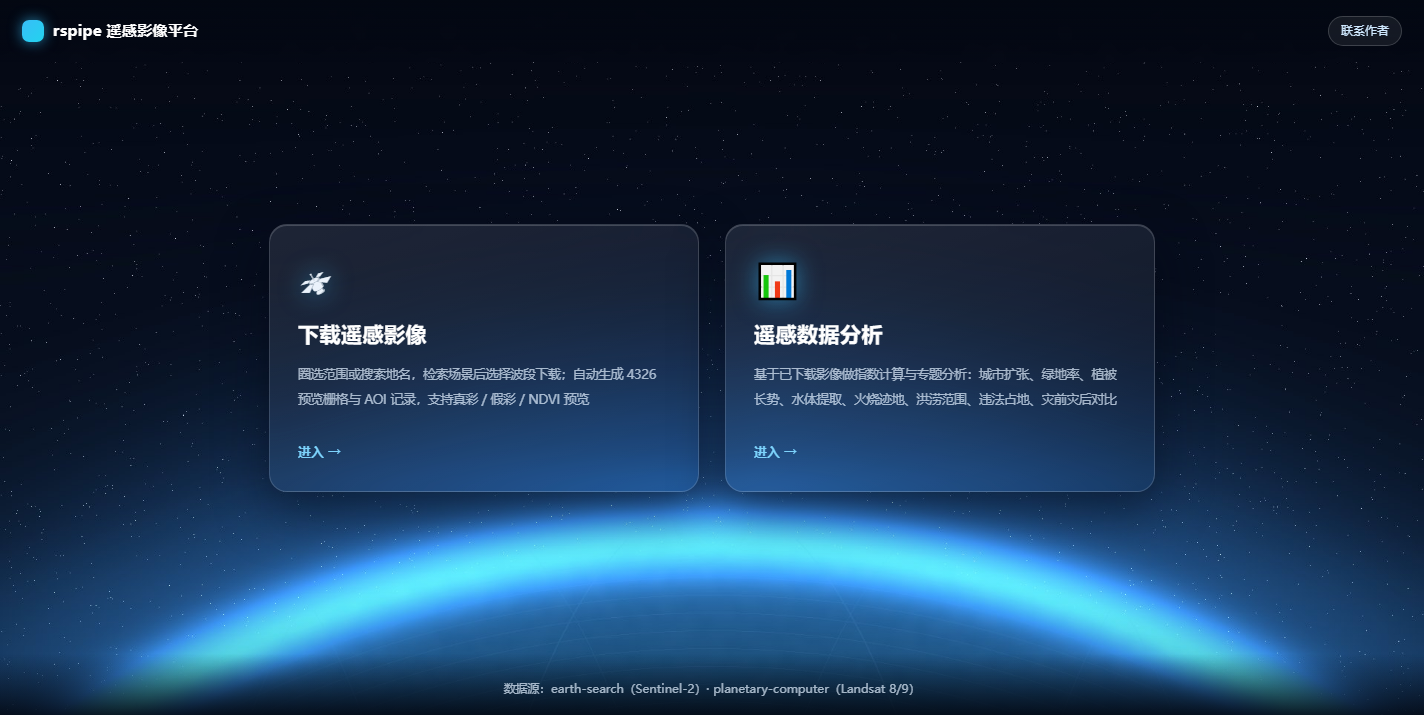
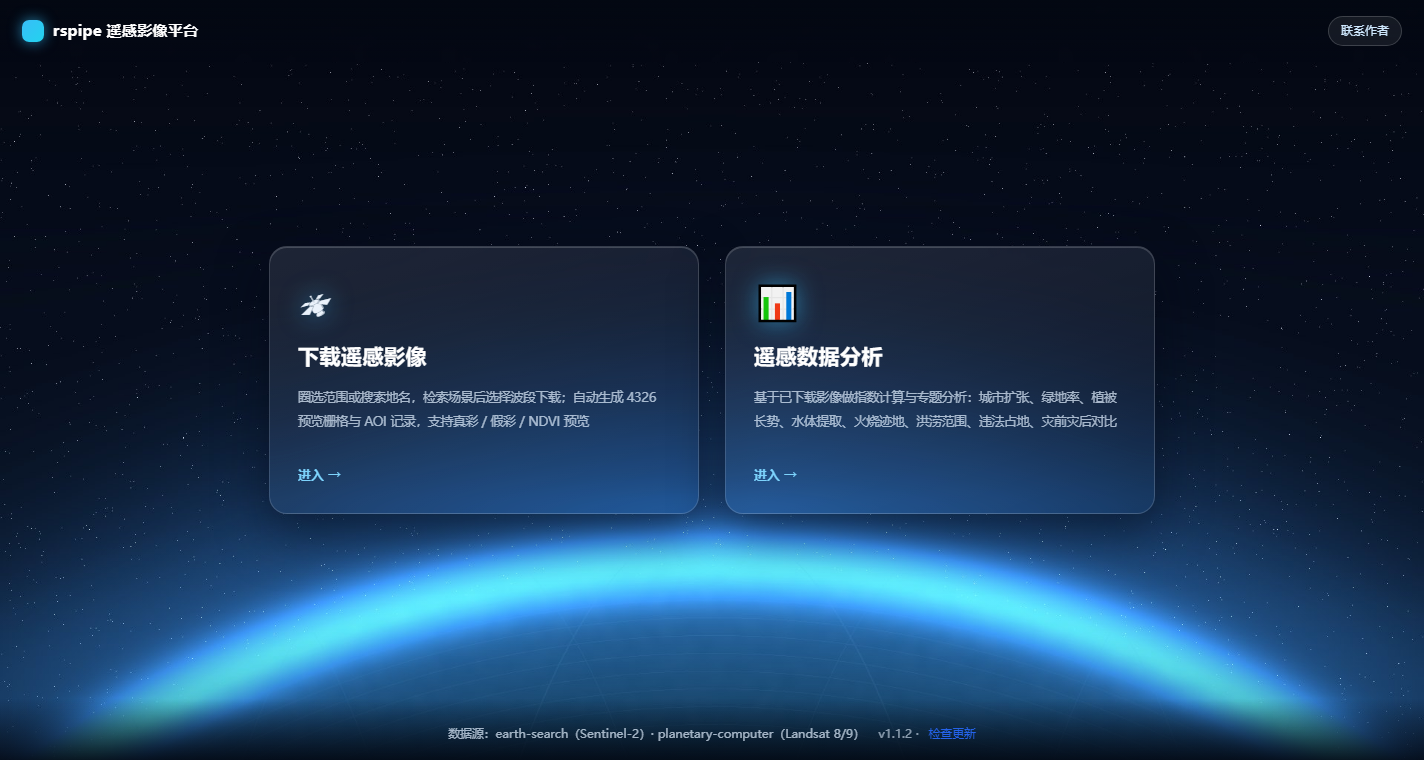
docs: 2.0 规划移出仓库（plan/，不同步）+ 界面预览截图更新
- 三份 2.0 规划文档移到 plan/，.gitignore 忽略 plan/，README 去掉对应链接
- 重新截取 7 张界面图：首页（含版本/检查更新）、下载页（上传矢量 AOI）、
  分析页（15 指数分组）、分析指南（通用说明 + 分类卡片）、波段选择（分组 + 必选锁定）、
  下载/分析操作指引

diff --git a/README.md b/README.md
@@ -337,9 +337,6 @@ docs/             设计与问题记录
 - `docs/web项目设计.md` — Web 平台架构与分期
 - `docs/应用能力介绍.md` — 能做哪些应用（城市/农业/林业/水环境/灾害/执法等）、方法、产出与能力边界
 - `docs/开发问题与经验.md` — 踩坑清单与规避方法
-- `docs/2.0-规划-土地利用分类.md` — 2.0 土地利用分类：数据源实测、规则原型、方案与里程碑
-- `docs/2.0-规划-数据源扩展.md` — 2.0 可免费接入的影像源（PC 集合清单、需账号/国产、优先级）
-- `docs/2.0-规划-高级分析.md` — 2.0 高级分析清单（15 指数现状 + P0/P1/P2 排期 + 勘误）
 
 ## 许可证
 
